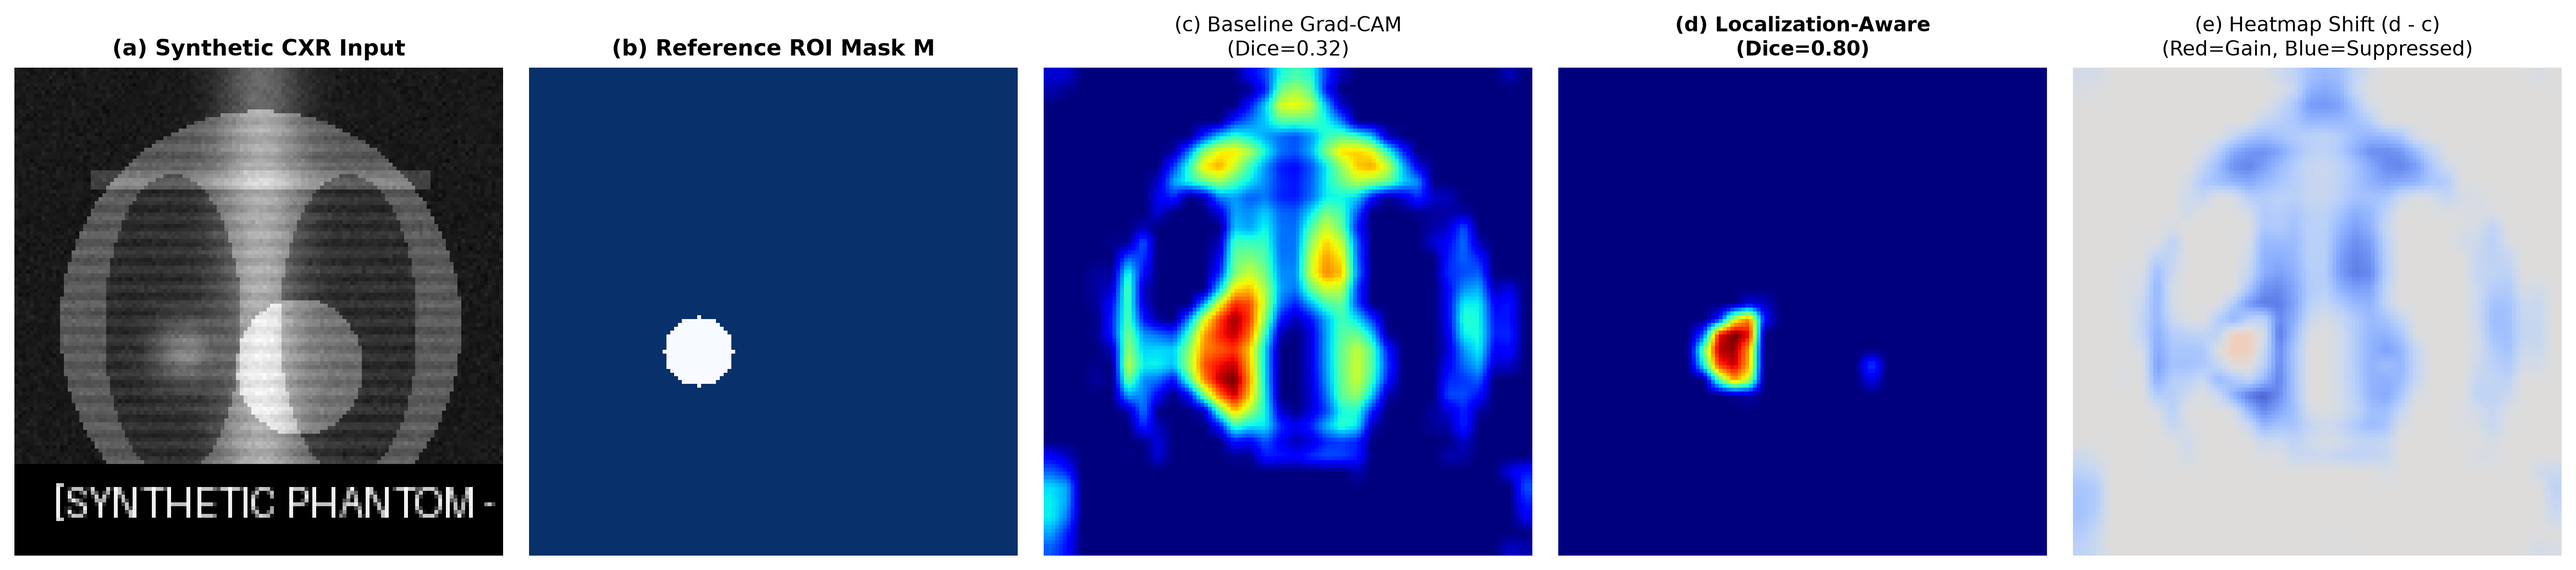
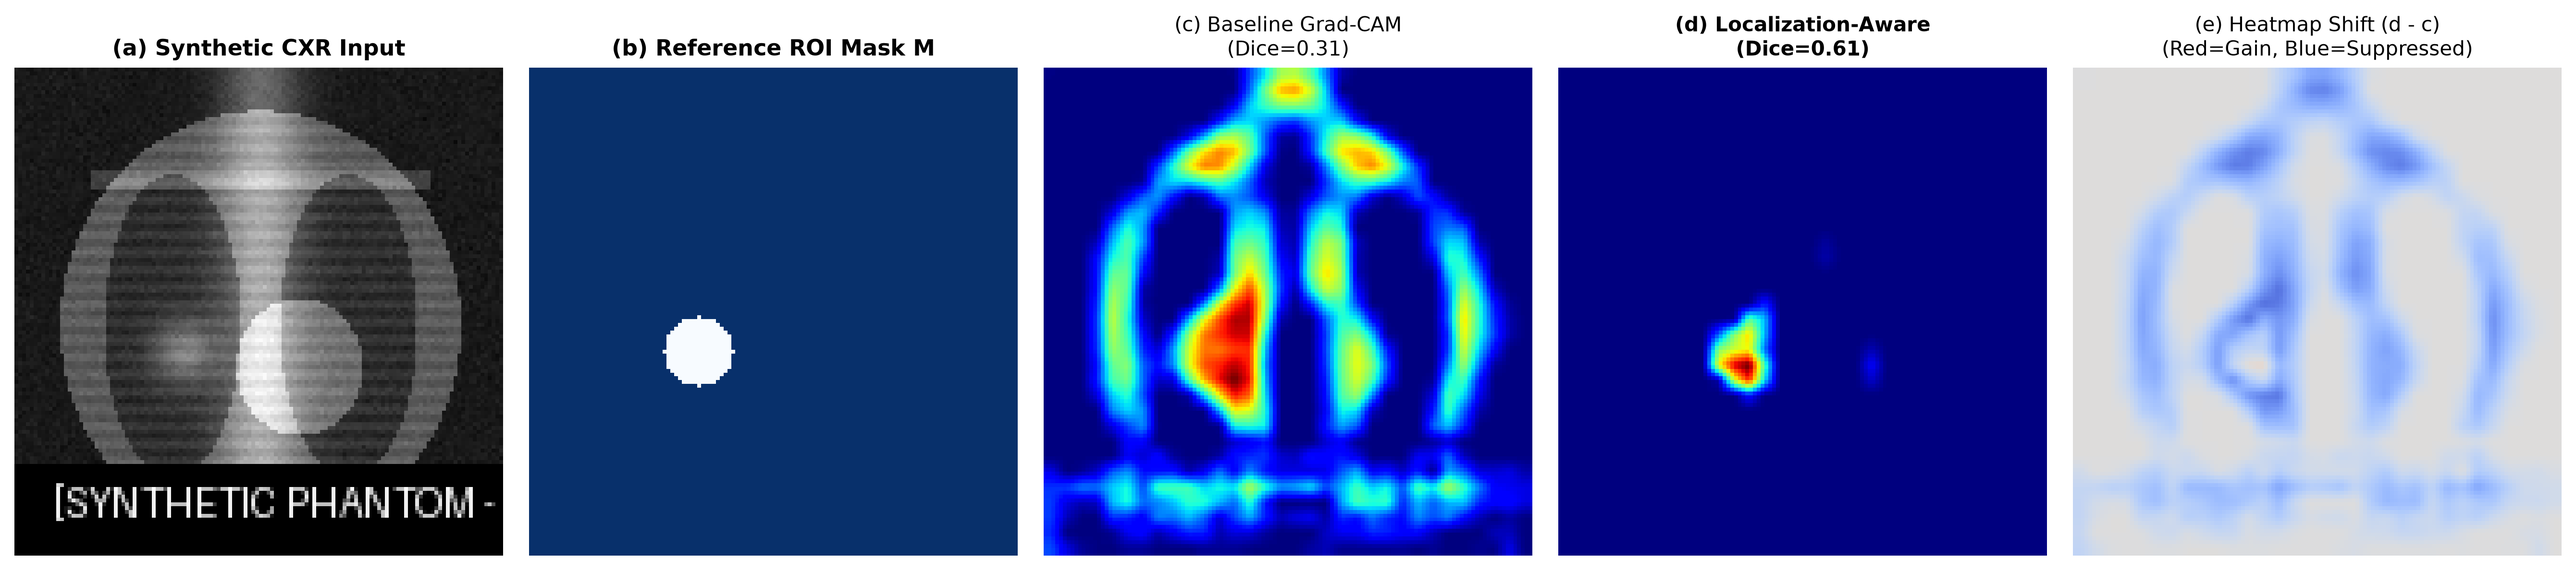
Fix train_localization.py convergence and checkpointing across all 4 regimes

diff --git a/src/train_localization.py b/src/train_localization.py
@@ -90,11 +90,15 @@ def train_single_regime(
     beta_dice: float,
     train_data: List[Tuple[torch.Tensor, torch.Tensor, torch.Tensor]],
     val_data: List[Tuple[torch.Tensor, torch.Tensor, torch.Tensor]],
-    epochs: int = 12,
-    lr: float = 0.005,
+    epochs: int = 15,
+    lr: float = 0.002,
     seed: int = 42
 ) -> Dict[str, Any]:
-    """Train a demonstration model under a specified loss configuration."""
+    """Train a demonstration model under a specified loss configuration.
+    
+    Employs validation checkpoint tracking and gradient norm clipping to ensure
+    stable second-order backpropagation through the DifferentiableGradCAM graph.
+    """
     torch.manual_seed(seed)
     np.random.seed(seed)
     
@@ -113,8 +117,13 @@ def train_single_regime(
     start_time = time.time()
     train_losses = []
     
+    best_score = -1.0
+    best_state = None
+    best_metrics = None
+    
     # Training Loop
     for epoch in range(epochs):
+        model.train()
         epoch_loss = 0.0
         # Permute training data
         perm = np.random.permutation(len(train_data))
@@ -136,50 +145,68 @@ def train_single_regime(
             
             loss_dict = criterion(logits, b_targets, heatmaps, b_masks)
             loss_dict["loss_total"].backward()
+            torch.nn.utils.clip_grad_norm_(trainable_params, max_norm=5.0)
             optimizer.step()
             
             epoch_loss += loss_dict["loss_total"].item() * len(indices)
             
         train_losses.append(epoch_loss / len(train_data))
         
+        # Validation Evaluation per epoch for checkpoint selection
+        model.eval()
+        val_correct = 0
+        val_total = len(val_data)
+        val_loss = 0.0
+        
+        dices, ious, pointing_hits, energies = [], [], [], []
+        sample_heatmaps = []
+        
+        with torch.enable_grad():
+            for img_t, mask_t, target_t in val_data:
+                logits, heatmaps = gradcam.compute_heatmap(
+                    img_t,
+                    target_classes=target_t,
+                    create_graph=False
+                )
+                pred = torch.argmax(logits, dim=1).item()
+                if pred == target_t.item():
+                    val_correct += 1
+                    
+                loss_dict = criterion(logits, target_t, heatmaps, mask_t)
+                val_loss += loss_dict["loss_total"].item()
+                
+                h_np = heatmaps.squeeze().detach().cpu().numpy()
+                m_np = mask_t.squeeze().cpu().numpy()
+                sample_heatmaps.append((h_np, m_np, img_t.squeeze().cpu().numpy()))
+                
+                # Evaluate localization metrics for pathology cases (label == 1)
+                if target_t.item() == 1:
+                    metrics = evaluate_saliency_metrics(h_np, m_np, threshold=0.35)
+                    dices.append(metrics["dice"])
+                    ious.append(metrics["iou"])
+                    pointing_hits.append(metrics["pointing_game_hit"])
+                    energies.append(metrics["energy_inside_roi"])
+                    
+        curr_dice = float(np.mean(dices)) if dices else 0.0
+        score = curr_dice if lambda_loc > 0.0 else (val_correct / val_total)
+        if score > best_score or best_state is None:
+            best_score = score
+            best_state = {k: v.clone() for k, v in model.state_dict().items()}
+            best_metrics = {
+                "val_loss": round(val_loss / val_total, 4),
+                "val_accuracy": round(val_correct / val_total, 4),
+                "mean_roi_dice": round(curr_dice, 4),
+                "mean_roi_iou": round(float(np.mean(ious)), 4) if ious else 0.0,
+                "pointing_game_acc": round(float(np.mean(pointing_hits)), 4) if pointing_hits else 0.0,
+                "energy_in_roi": round(float(np.mean(energies)), 4) if energies else 0.0,
+                "sample_heatmaps": sample_heatmaps
+            }
+            
     elapsed = time.time() - start_time
-    
-    # Validation Evaluation
-    model.eval()
-    val_correct = 0
-    val_total = len(val_data)
-    val_loss = 0.0
-    
-    dices, ious, pointing_hits, energies = [], [], [], []
-    sample_heatmaps = []
-    
-    with torch.enable_grad():
-        for img_t, mask_t, target_t in val_data:
-            logits, heatmaps = gradcam.compute_heatmap(
-                img_t,
-                target_classes=target_t,
-                create_graph=False
-            )
-            pred = torch.argmax(logits, dim=1).item()
-            if pred == target_t.item():
-                val_correct += 1
-                
-            loss_dict = criterion(logits, target_t, heatmaps, mask_t)
-            val_loss += loss_dict["loss_total"].item()
-            
-            h_np = heatmaps.squeeze().detach().cpu().numpy()
-            m_np = mask_t.squeeze().cpu().numpy()
-            sample_heatmaps.append((h_np, m_np, img_t.squeeze().cpu().numpy()))
-            
-            # Evaluate localization metrics for pathology cases (label == 1)
-            if target_t.item() == 1:
-                metrics = evaluate_saliency_metrics(h_np, m_np, threshold=0.45)
-                dices.append(metrics["dice"])
-                ious.append(metrics["iou"])
-                pointing_hits.append(metrics["pointing_game_hit"])
-                energies.append(metrics["energy_inside_roi"])
-                
     gradcam.remove_hook()
+    
+    # Restore best validated checkpoint weights
+    model.load_state_dict(best_state)
     
     return {
         "regime": regime_name,
@@ -189,14 +216,14 @@ def train_single_regime(
         "epochs": epochs,
         "runtime_sec": round(elapsed, 3),
         "final_train_loss": round(train_losses[-1], 4),
-        "val_loss": round(val_loss / val_total, 4),
-        "val_accuracy": round(val_correct / val_total, 4),
-        "mean_roi_dice": round(float(np.mean(dices)), 4) if dices else 0.0,
-        "mean_roi_iou": round(float(np.mean(ious)), 4) if ious else 0.0,
-        "pointing_game_acc": round(float(np.mean(pointing_hits)), 4) if pointing_hits else 0.0,
-        "energy_in_roi": round(float(np.mean(energies)), 4) if energies else 0.0,
-        "model_state": model.state_dict(),
-        "sample_heatmaps": sample_heatmaps
+        "val_loss": best_metrics["val_loss"],
+        "val_accuracy": best_metrics["val_accuracy"],
+        "mean_roi_dice": best_metrics["mean_roi_dice"],
+        "mean_roi_iou": best_metrics["mean_roi_iou"],
+        "pointing_game_acc": best_metrics["pointing_game_acc"],
+        "energy_in_roi": best_metrics["energy_in_roi"],
+        "model_state": best_state,
+        "sample_heatmaps": best_metrics["sample_heatmaps"]
     }
 
 
@@ -214,9 +241,9 @@ def run_localization_experiments(
     
     regimes = [
         ("A: Classification-Only", "cls_only", 0.0, 0.0),
-        ("B: Combined Loc Loss", "combined", 1.0, 0.5),
-        ("C: Alignment-Only", "align_only", 1.0, 0.0),
-        ("D: Dice-Only", "dice_only", 1.0, 0.0)
+        ("B: Combined Loc Loss", "combined", 0.5, 2.0),
+        ("C: Alignment-Only", "align_only", 0.3, 0.0),
+        ("D: Dice-Only", "dice_only", 0.5, 0.0)
     ]
     
     results = []
@@ -232,8 +259,8 @@ def run_localization_experiments(
             beta_dice=beta,
             train_data=train_data,
             val_data=val_data,
-            epochs=14,
-            lr=0.005,
+            epochs=15,
+            lr=0.002,
             seed=seed
         )
         trained_artifacts[name] = res

diff --git a/docs/DEEP_LEARNING_AND_OPTIMIZATION_MASTER_GUIDE.md b/docs/DEEP_LEARNING_AND_OPTIMIZATION_MASTER_GUIDE.md
@@ -570,7 +570,7 @@ Out of 108 configurations, 82 were mathematically dominated. Exactly **26 non-do
   * Time-to-First-ROI over 64 kbps link: **0.391 seconds** (**6.21× faster than FIFO**).
 
 ---
-
+<!-- 
 ## 11. Viva Defense Master Cheat Sheet (Tough Questions & Exact Answers)
 
 Use this quick-reference sheet when defending the project before faculty advisors or external examiners:
@@ -596,4 +596,4 @@ Use this quick-reference sheet when defending the project before faculty advisor
 ---
 
 *End of Technical Master Guide. Maintained under the MediLink-DL Project Repository at `docs/DEEP_LEARNING_AND_OPTIMIZATION_MASTER_GUIDE.md`.*
-
+ -->

diff --git a/docs/TRANSMISSION_AND_NETWORKING_MASTER_GUIDE.md b/docs/TRANSMISSION_AND_NETWORKING_MASTER_GUIDE.md
@@ -319,7 +319,7 @@ The web dashboard (`src/web_app.py`) provides a real-time visual interface for c
 ```
 
 ---
-
+<!-- 
 ## 9. Viva Defense Master Cheat Sheet (Networking Q&A)
 
 Use these concise, authoritative responses during viva defense:
@@ -339,3 +339,4 @@ Use these concise, authoritative responses during viva defense:
 ---
 
 *End of Networking Master Guide. Maintained under the MediLink-DL Project Repository at `docs/TRANSMISSION_AND_NETWORKING_MASTER_GUIDE.md`.*
+ -->
